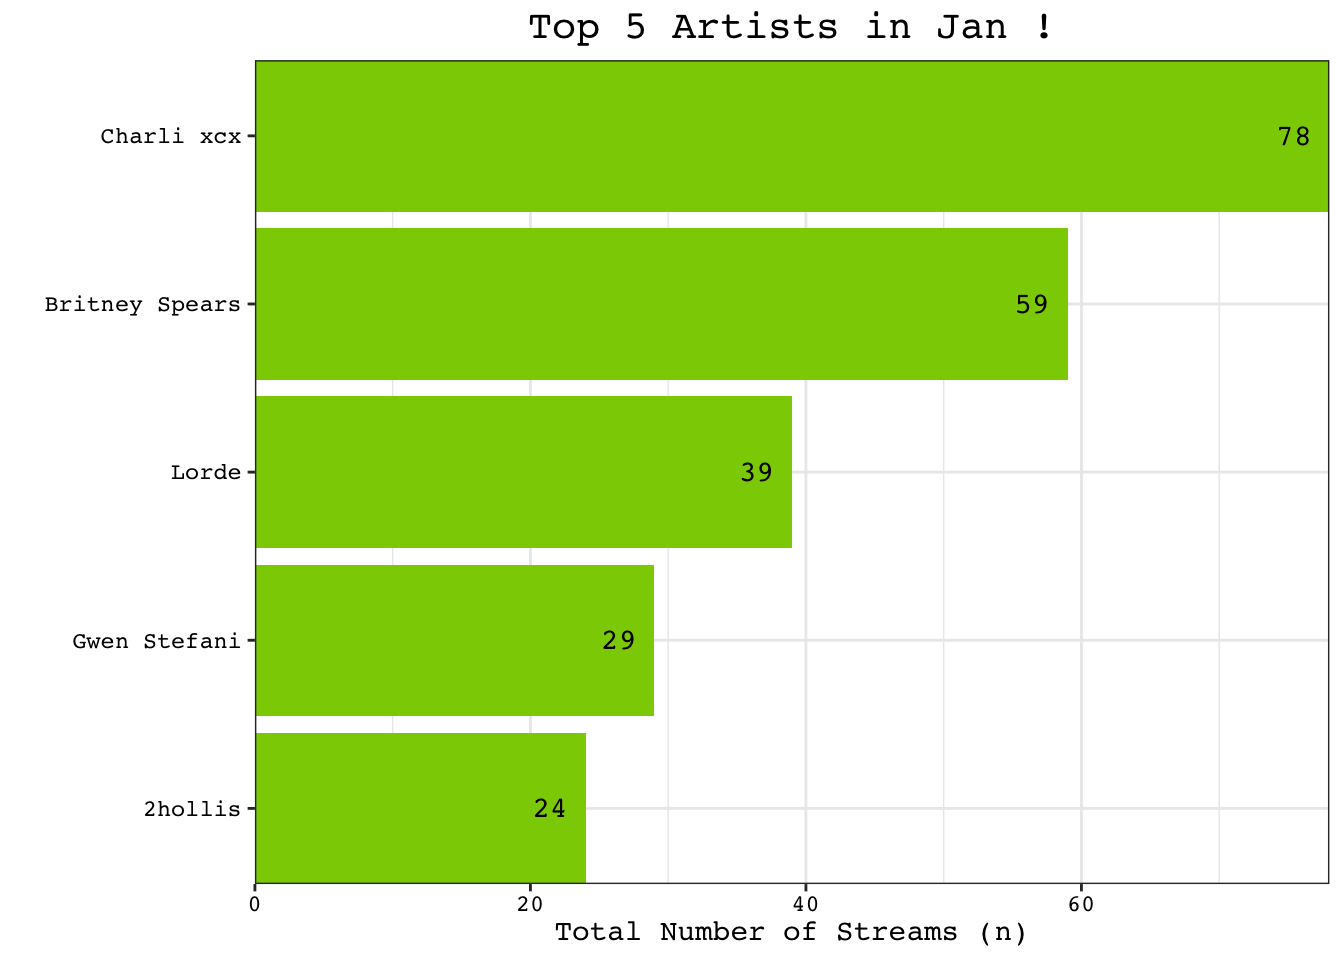
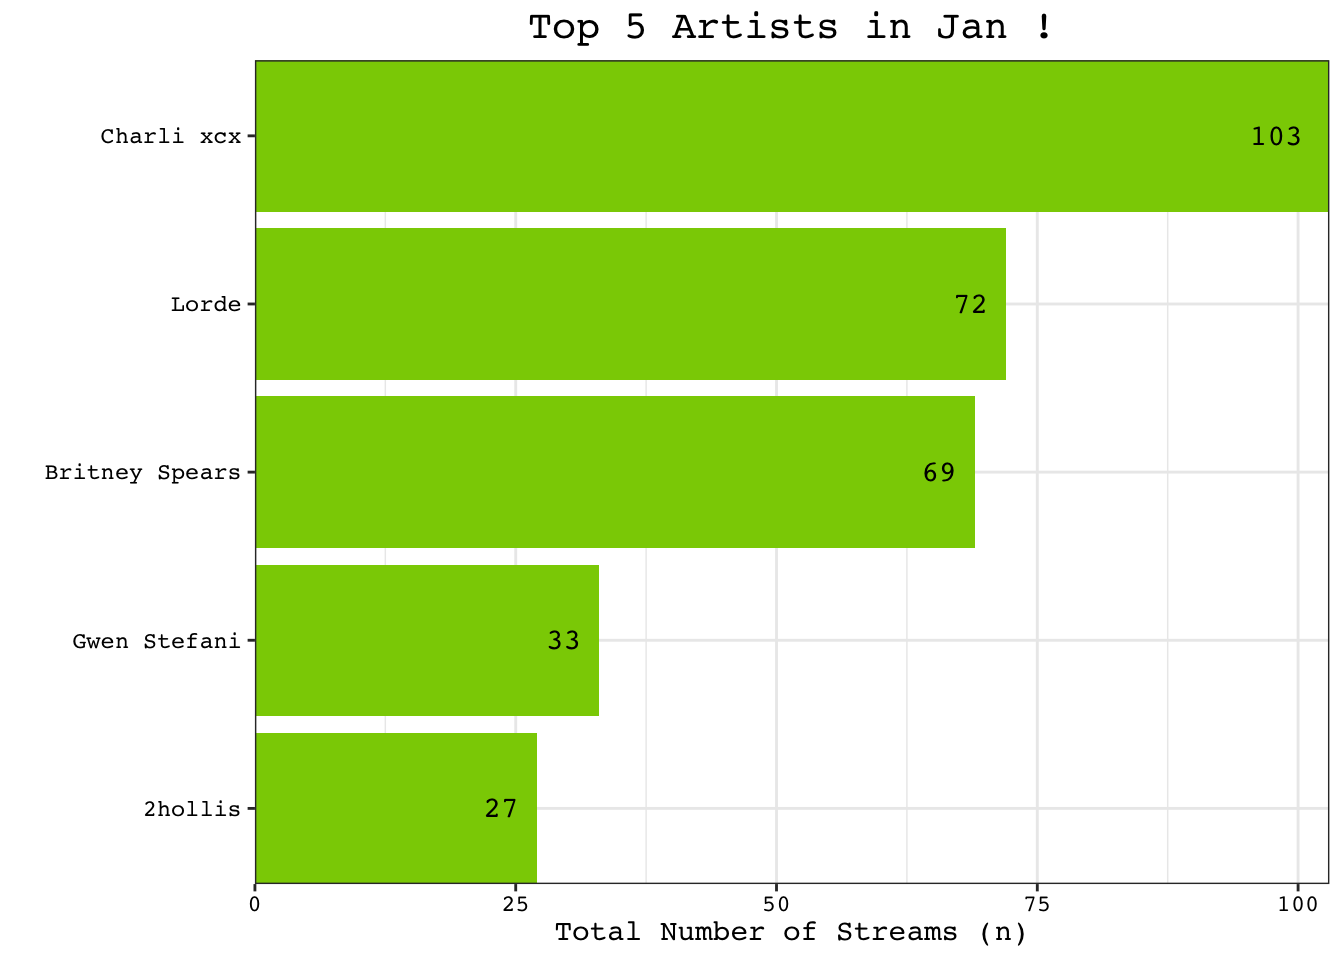
update january wrapped

diff --git a/spotify_wrapped.html b/spotify_wrapped.html
@@ -243,7 +243,7 @@ pre > code.sourceCode > span > a:first-child::before { text-decoration: underlin
 <span id="cb8-6"><a href="#cb8-6" aria-hidden="true" tabindex="-1"></a><span class="fu">message</span>(<span class="fu">paste</span>(<span class="st">"You listened to"</span>, u_artists<span class="sc">$</span>total_unique_artists, <span class="st">"different artists in"</span>, u_artists<span class="sc">$</span>month, <span class="st">"!"</span>))</span></code><button title="Copy to Clipboard" class="code-copy-button"><i class="bi"></i></button></pre></div>
 </details>
 <div class="cell-output cell-output-stderr">
-<pre><code>You listened to 98 different artists in Jan !</code></pre>
+<pre><code>You listened to 116 different artists in Jan !</code></pre>
 </div>
 </div>
 <div class="cell">
@@ -297,7 +297,7 @@ pre > code.sourceCode > span > a:first-child::before { text-decoration: underlin
 <span id="cb11-9"><a href="#cb11-9" aria-hidden="true" tabindex="-1"></a><span class="fu">message</span>(<span class="fu">paste</span>(top_artist_song<span class="sc">$</span>track_name, <span class="st">"is your most-played song by"</span>, top_5_artists<span class="sc">$</span>artist[<span class="dv">1</span>], <span class="st">", with a total of"</span>, top_artist_song<span class="sc">$</span>total_streams, <span class="st">"streams !"</span>))</span></code><button title="Copy to Clipboard" class="code-copy-button"><i class="bi"></i></button></pre></div>
 </details>
 <div class="cell-output cell-output-stderr">
-<pre><code>Club classics is your most-played song by Charli xcx , with a total of 4 streams !</code></pre>
+<pre><code>Delicious (feat. Tommy Cash) is your most-played song by Charli xcx , with a total of 6 streams !</code></pre>
 </div>
 </div>
 </section>
@@ -310,7 +310,7 @@ pre > code.sourceCode > span > a:first-child::before { text-decoration: underlin
 <span id="cb13-2"><a href="#cb13-2" aria-hidden="true" tabindex="-1"></a><span class="fu">message</span>(<span class="fu">paste</span>(<span class="st">"You listened to a total of"</span>, <span class="fu">nrow</span>(monthly_datasets[[i]]), <span class="st">"songs in"</span>, monthly_datasets[[i]]<span class="sc">$</span>month[<span class="dv">1</span>], <span class="st">"!"</span>))</span></code><button title="Copy to Clipboard" class="code-copy-button"><i class="bi"></i></button></pre></div>
 </details>
 <div class="cell-output cell-output-stderr">
-<pre><code>You listened to a total of 500 songs in Jan !</code></pre>
+<pre><code>You listened to a total of 679 songs in Jan !</code></pre>
 </div>
 </div>
 <div class="cell">
@@ -324,7 +324,7 @@ pre > code.sourceCode > span > a:first-child::before { text-decoration: underlin
 <span id="cb15-6"><a href="#cb15-6" aria-hidden="true" tabindex="-1"></a><span class="fu">message</span>(<span class="fu">paste</span>(<span class="st">"Out of those"</span>, <span class="fu">nrow</span>(monthly_datasets[[i]]), <span class="st">","</span>, u_tracks<span class="sc">$</span>total_unique_tracks, <span class="st">"were different songs !"</span>))</span></code><button title="Copy to Clipboard" class="code-copy-button"><i class="bi"></i></button></pre></div>
 </details>
 <div class="cell-output cell-output-stderr">
-<pre><code>Out of those 500 , 289 were different songs !</code></pre>
+<pre><code>Out of those 679 , 348 were different songs !</code></pre>
 </div>
 </div>
 <div class="cell">

diff --git a/README.md b/README.md
@@ -21,9 +21,7 @@ spotify-wrapped
 ├── README.md
 ├── .gitignore
 ├── spotify-wrapped.qmd
-├── Rmd/Proj files
-└── images
-    └── kyle.jpg
+└── Rmd/Proj files
 ```
 
 ## Data
